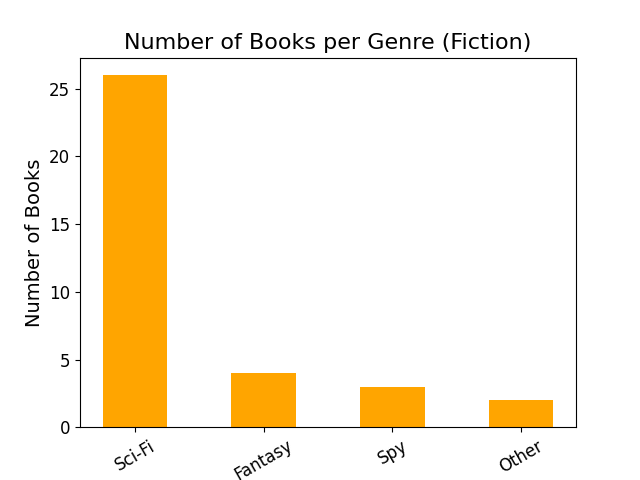
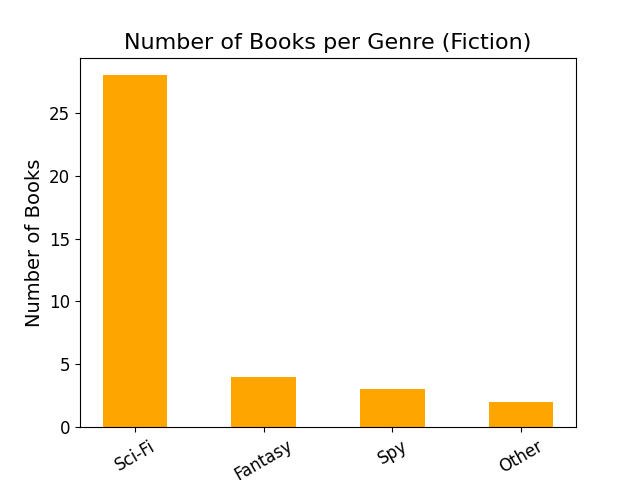
updated books page

diff --git a/Miscellaneous_books.md b/Miscellaneous_books.md
@@ -68,7 +68,7 @@ Books marked with a 🛸 have been read in the current calendar year.
 - **Second Foundation**, _Isaac Asimov_, 4 ⭐
 - **Foundation and Empire**, _Isaac Asimov_, 3 ⭐
 - **The Early Asimov - Volume 1**, _Isaac Asimov_, 3 ⭐
-- **Fahrenheit 451**, _Ray Bradbury_, 3 ⭐
+- **Fahrenheit 451**, _Ray Bradbury_, 2 ⭐
 - **Brave New World**, _Aldous Huxley_, 4 ⭐
 - **I, Robot**, _Isaac Asimov_, 4 ⭐
 - **Project Hail Mary**, _Andy Weir_, 5 ⭐
@@ -85,6 +85,8 @@ Books marked with a 🛸 have been read in the current calendar year.
 - **Old Mans War**, _John Scalzi_, 3 ⭐
 - **Snow Crash**, _Neal Stephenson_, 3 ⭐ 🛸
 - **War of the Worlds**, _H.G.Wells_, 3 ⭐ 🛸
+- **Contact**, _Carl Sagan_, 4 ⭐ 🛸
+- **Solaris**, _Stanisław Lem_, 4 ⭐ 🛸
 
 ## Spy 
 
